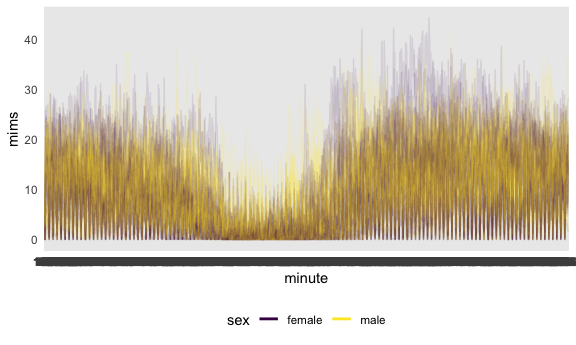
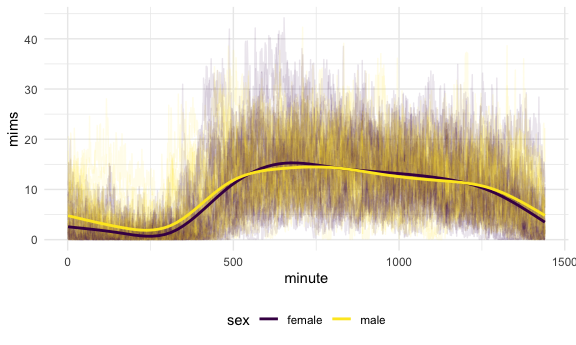
Adding comments and making minor changes to problem 2

diff --git a/p8105_hw3_cc5604.md b/p8105_hw3_cc5604.md
@@ -188,7 +188,8 @@ acc_df =
     names_to = "minute",
     names_prefix = "min",
     values_to = "mims"
-  )
+  ) |>
+  mutate(minute = as.numeric(minute))
 ```
 
     ## Rows: 250 Columns: 1441
@@ -231,6 +232,10 @@ demo_df |>
 ```
 
 <img src="p8105_hw3_cc5604_files/figure-gfm/unnamed-chunk-9-1.png" alt="" width="90%" />
+
+The numbers of men and women are relatively close for “Less than high
+school” and “More than high school” group. However, there are more men
+than women in the “High school equivalent” group.
 
 ## Creating a total activity variable for each participant
 
@@ -290,6 +295,13 @@ total_df |>
 
 <img src="p8105_hw3_cc5604_files/figure-gfm/unnamed-chunk-13-1.png" alt="" width="90%" />
 
+The total activity shows a downward trend across all education groups as
+age goes up, especially (most significantly) in the “Less than high
+school” group. In the “More than high school” and “High school
+equivalent” group, women show a trend of higher activity compared to
+men. In the “Less than high school” group, women are more active at
+younger ages, then men become slightly more active from about 45 to 65.
+
 ## Three-panel plot that shows the 24-hour activity time courses for “Less than high school” group
 
 ``` r
@@ -300,7 +312,7 @@ nhanes_df |>
   geom_smooth(se = FALSE)
 ```
 
-    ## `geom_smooth()` using method = 'loess' and formula = 'y ~ x'
+    ## `geom_smooth()` using method = 'gam' and formula = 'y ~ s(x, bs = "cs")'
 
 <img src="p8105_hw3_cc5604_files/figure-gfm/unnamed-chunk-14-1.png" alt="" width="90%" />
 
@@ -314,7 +326,7 @@ nhanes_df |>
   geom_smooth(se = FALSE)
 ```
 
-    ## `geom_smooth()` using method = 'loess' and formula = 'y ~ x'
+    ## `geom_smooth()` using method = 'gam' and formula = 'y ~ s(x, bs = "cs")'
 
 <img src="p8105_hw3_cc5604_files/figure-gfm/unnamed-chunk-15-1.png" alt="" width="90%" />
 
@@ -328,9 +340,16 @@ nhanes_df |>
   geom_smooth(se = FALSE)
 ```
 
-    ## `geom_smooth()` using method = 'loess' and formula = 'y ~ x'
+    ## `geom_smooth()` using method = 'gam' and formula = 'y ~ s(x, bs = "cs")'
 
 <img src="p8105_hw3_cc5604_files/figure-gfm/unnamed-chunk-16-1.png" alt="" width="90%" />
+
+The activities from all three groups display the trend of being the
+lowest in the night, increase in the morning, maintain high during the
+day, and gradually drops in the evening. The smooth trends suggest that
+women demonstrate slightly higher activity compared to men during the
+day, while men are relatively more active than women in the evening and
+at night.
 
 # Problem 3
 
